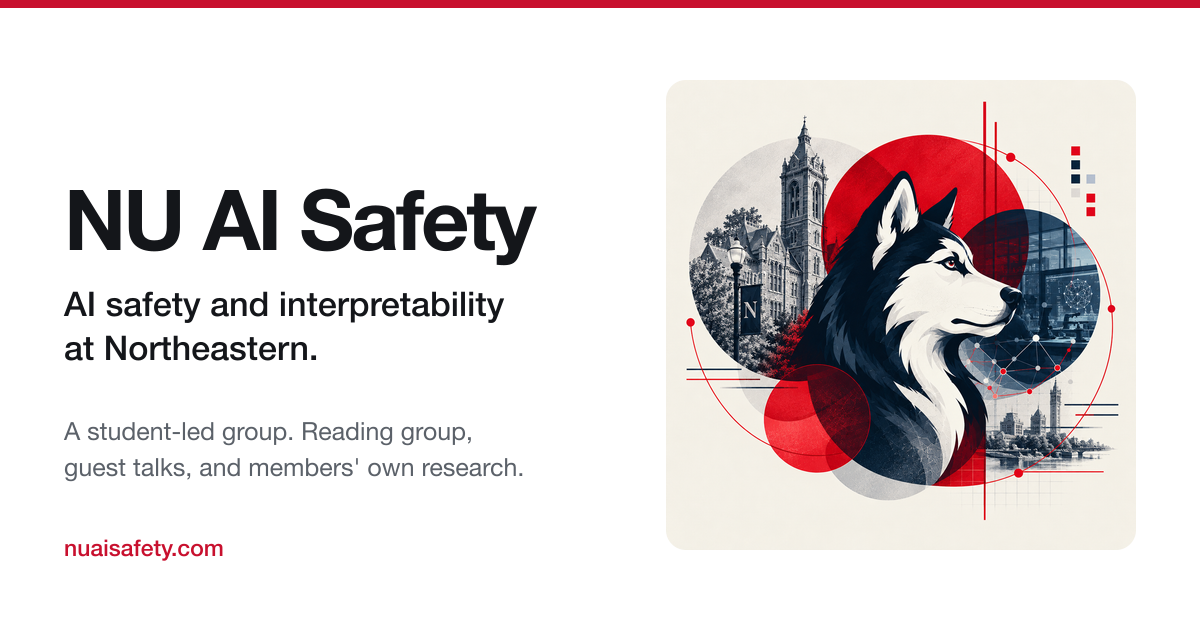
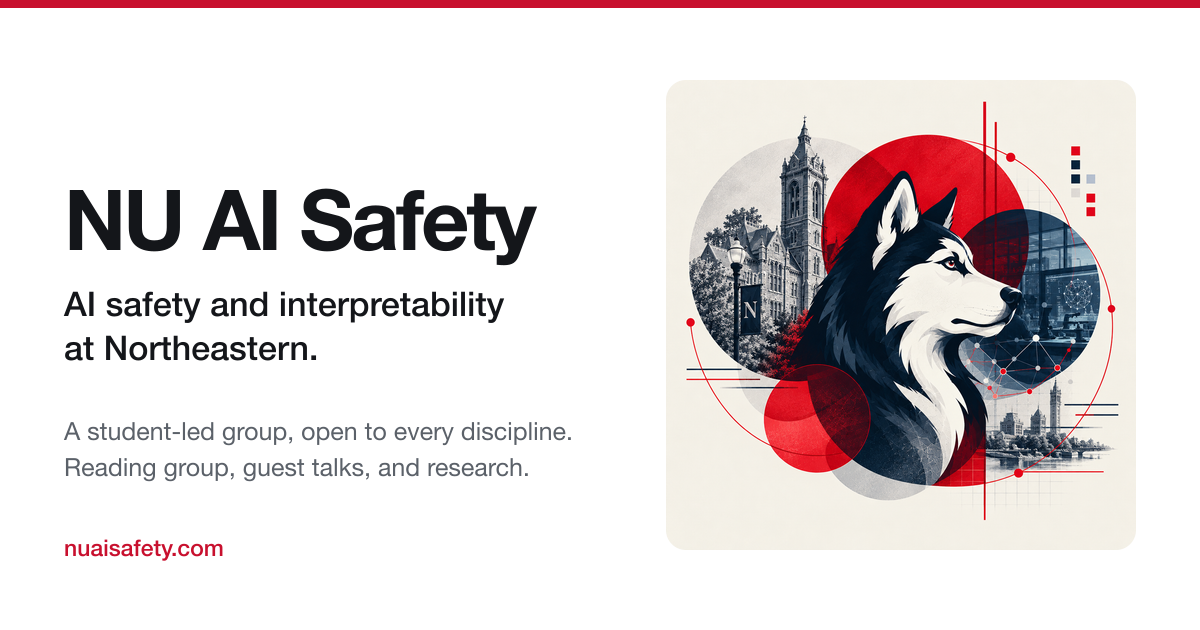
Make the site say AI safety is not only for technical people
The position existed but was buried and defensive. /about carried it two
headings down, and everything a phone visitor actually reads was
interpretability-forward, so a policy or biology student had no signal they were
wanted rather than merely tolerated.

Changes, in order of how many people see them:

- Hero gains a sentence. AI safety needs people from policy, security, biology
  and design as much as it needs engineers. This is the only paragraph most
  visitors read.
- New "Who this is for" band on the home page, stating it outright, including
  Elaine's point that this group is for people who find the existing groups
  intimidating. Placed before "We are new", with the band alternation fixed so
  the wash sections still alternate.
- /join now says who we want, not only who we do not require, and names the
  disciplines. Being named is what tells a non-CS student they are actually
  wanted.
- Meta description and the share card both mention it, which matters because
  the link is being pasted into Discord this week.

CONTENT.md updated to match, since it is the copy of record.

Changed region(s): [[0.0308, 0.6635, 0.4625, 0.7841]]

diff --git a/src/config.ts b/src/config.ts
@@ -15,7 +15,8 @@ export const SITE = {
   tagline: 'AI safety and interpretability at Northeastern.',
   description:
     'A student-led AI safety and interpretability group at Northeastern University. ' +
-    'Weekly reading group, guest talks, and support for members’ own research.',
+    'Weekly reading group, guest talks, and support for members’ own research. ' +
+    'Open to every discipline, no prerequisites.',
 };
 
 /** Where a signup CTA should point right now. */

diff --git a/CONTENT.md b/CONTENT.md
@@ -13,7 +13,8 @@ Use close to verbatim. `[BRACKETS]` mark decisions that need a human answer firs
 
 Northeastern hosts David Bau's interpretability lab and NDIF, the infrastructure a lot of
 external researchers use to look inside large models. We are the first student group built to
-put Northeastern students next to that work.
+put Northeastern students next to that work. AI safety needs people from policy, security,
+biology and design as much as it needs engineers.
 
 `[ Join the mailing list ]`  `[ What we do ]`
 
@@ -30,6 +31,16 @@ research, from the people doing it, on campus.
 **Research**
 The goal is members producing work, not just reading about it. If you want to run something,
 we would rather help you run it than talk you out of it.
+
+**Who this is for**
+
+AI safety is not only a machine learning problem. It runs through policy, security, biology, law
+and psychology, and it needs people who are good at those things. A room that is only engineers
+will miss things.
+
+You do not need machine learning experience, a CS degree, or any prior knowledge of AI safety.
+If the groups that already exist feel like they are for people who know all this already, that is
+exactly the gap we are built for.
 
 **Closing band**
 
@@ -93,6 +104,10 @@ Anyone at Northeastern. Undergraduate, master's, PhD, any programme.
 
 **No prerequisites.** You do not need machine learning experience, a CS degree, or prior
 knowledge of AI safety. The reading group starts from the beginning.
+
+We particularly want people from policy, law, security, biology, psychology, design and business.
+AI safety is not only a machine learning problem, and a room that is only engineers will miss
+things.
 
 If you are technical and already know this field, there is a version of this group that is about
 producing research rather than reading it, and we want you for that.
